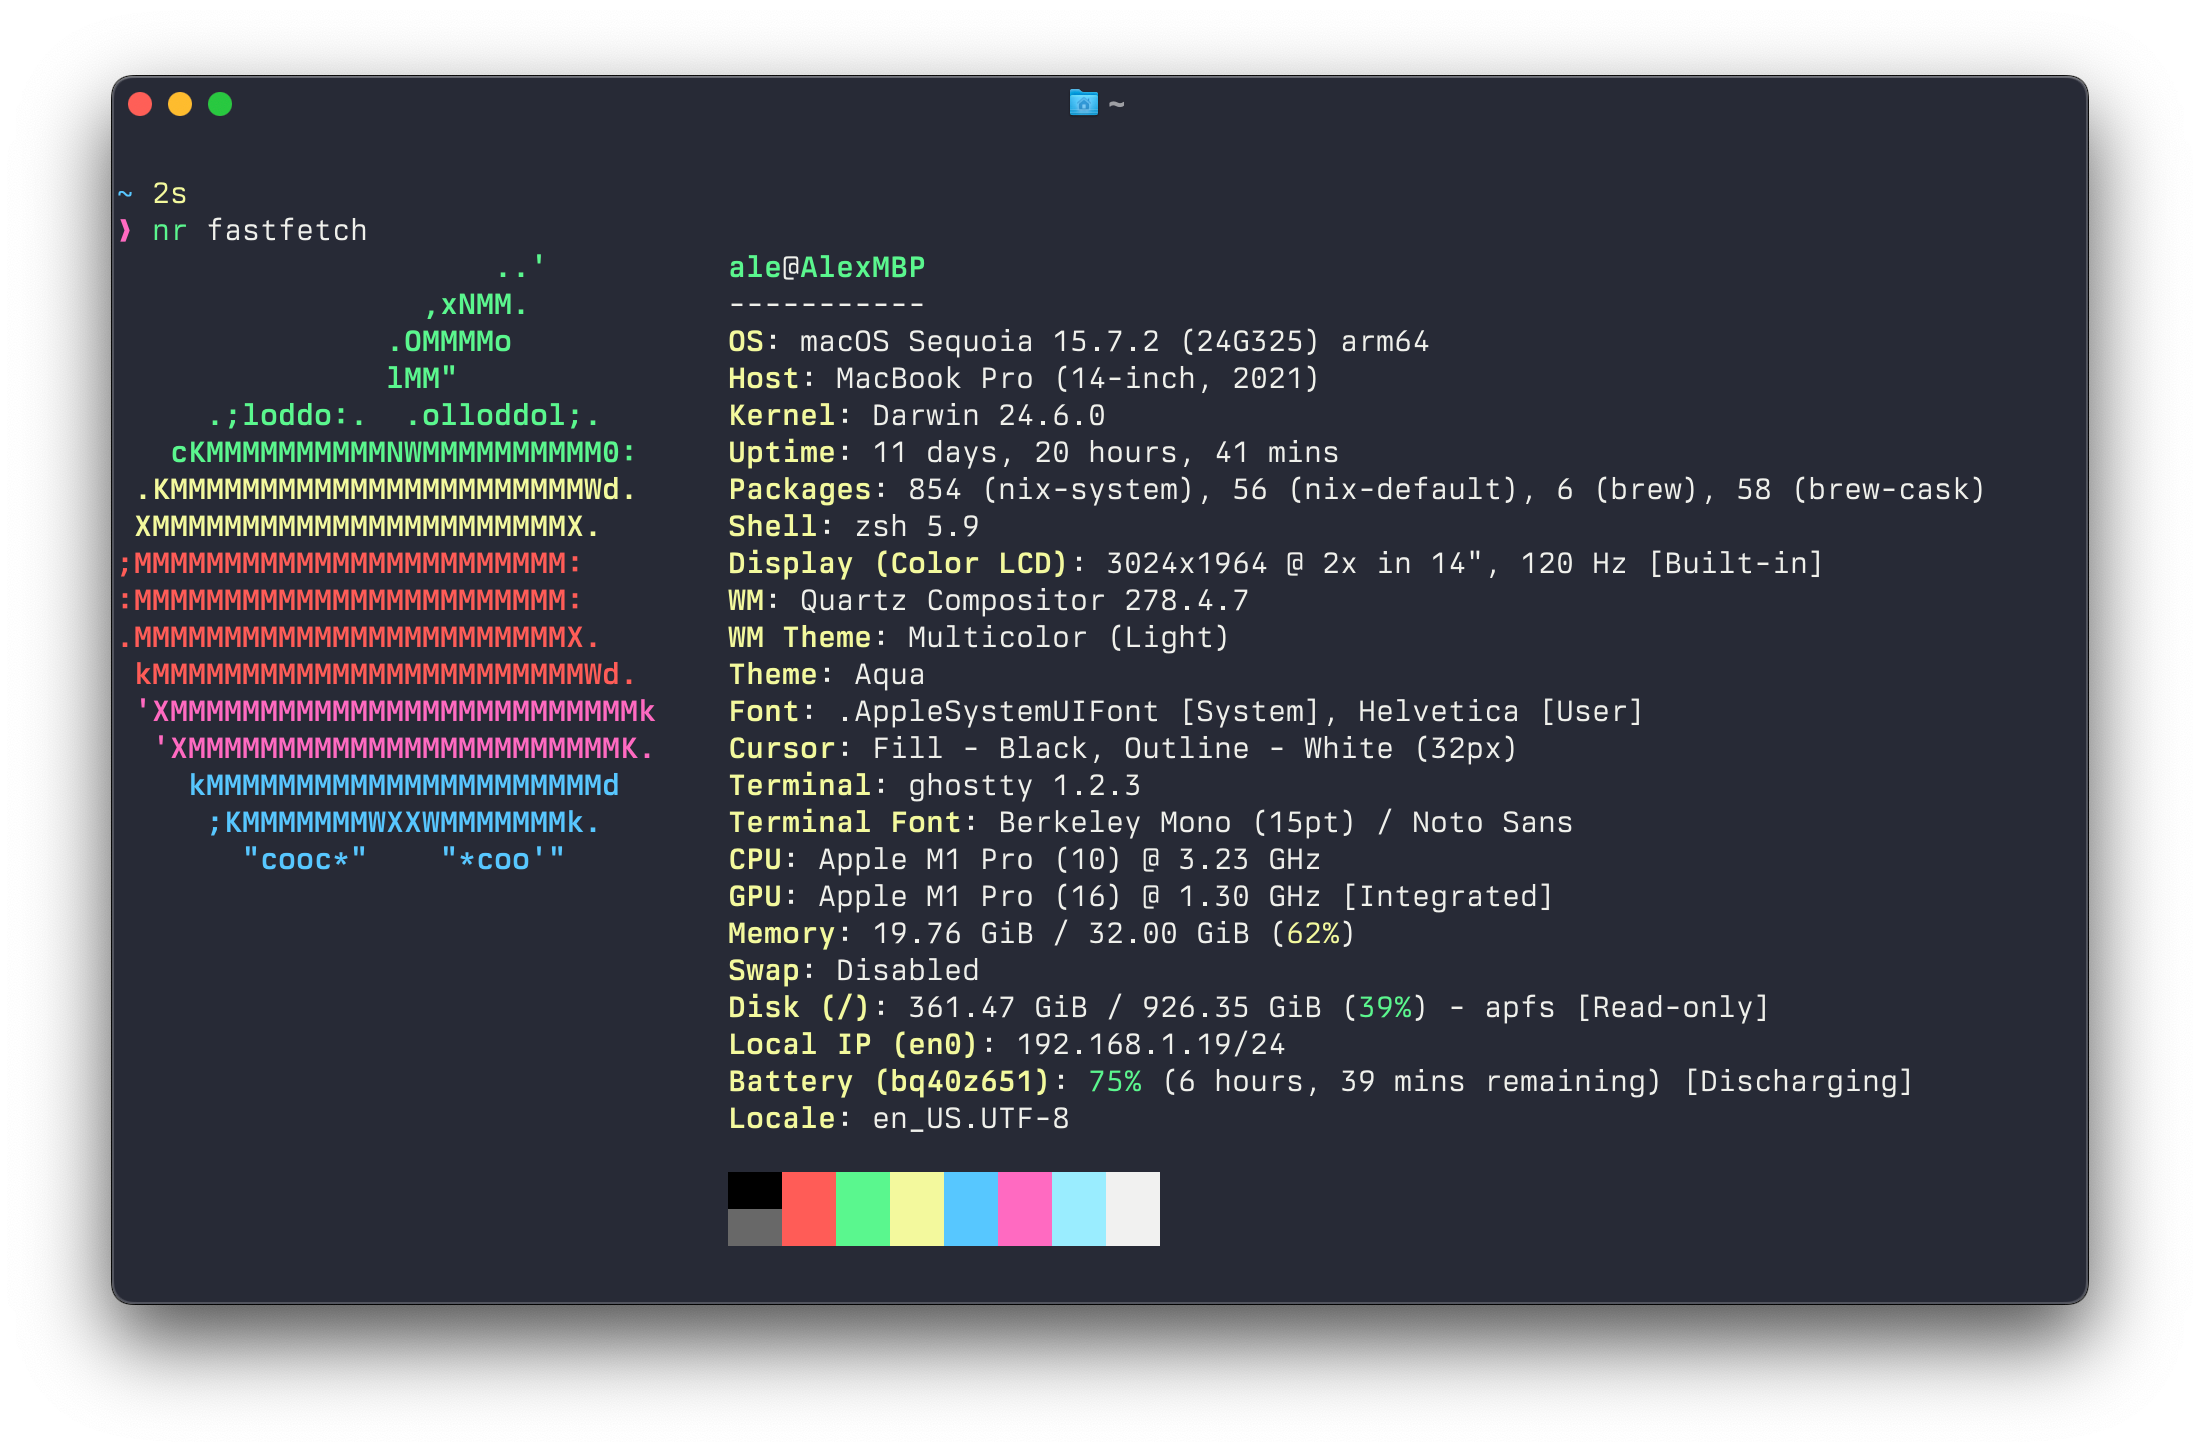
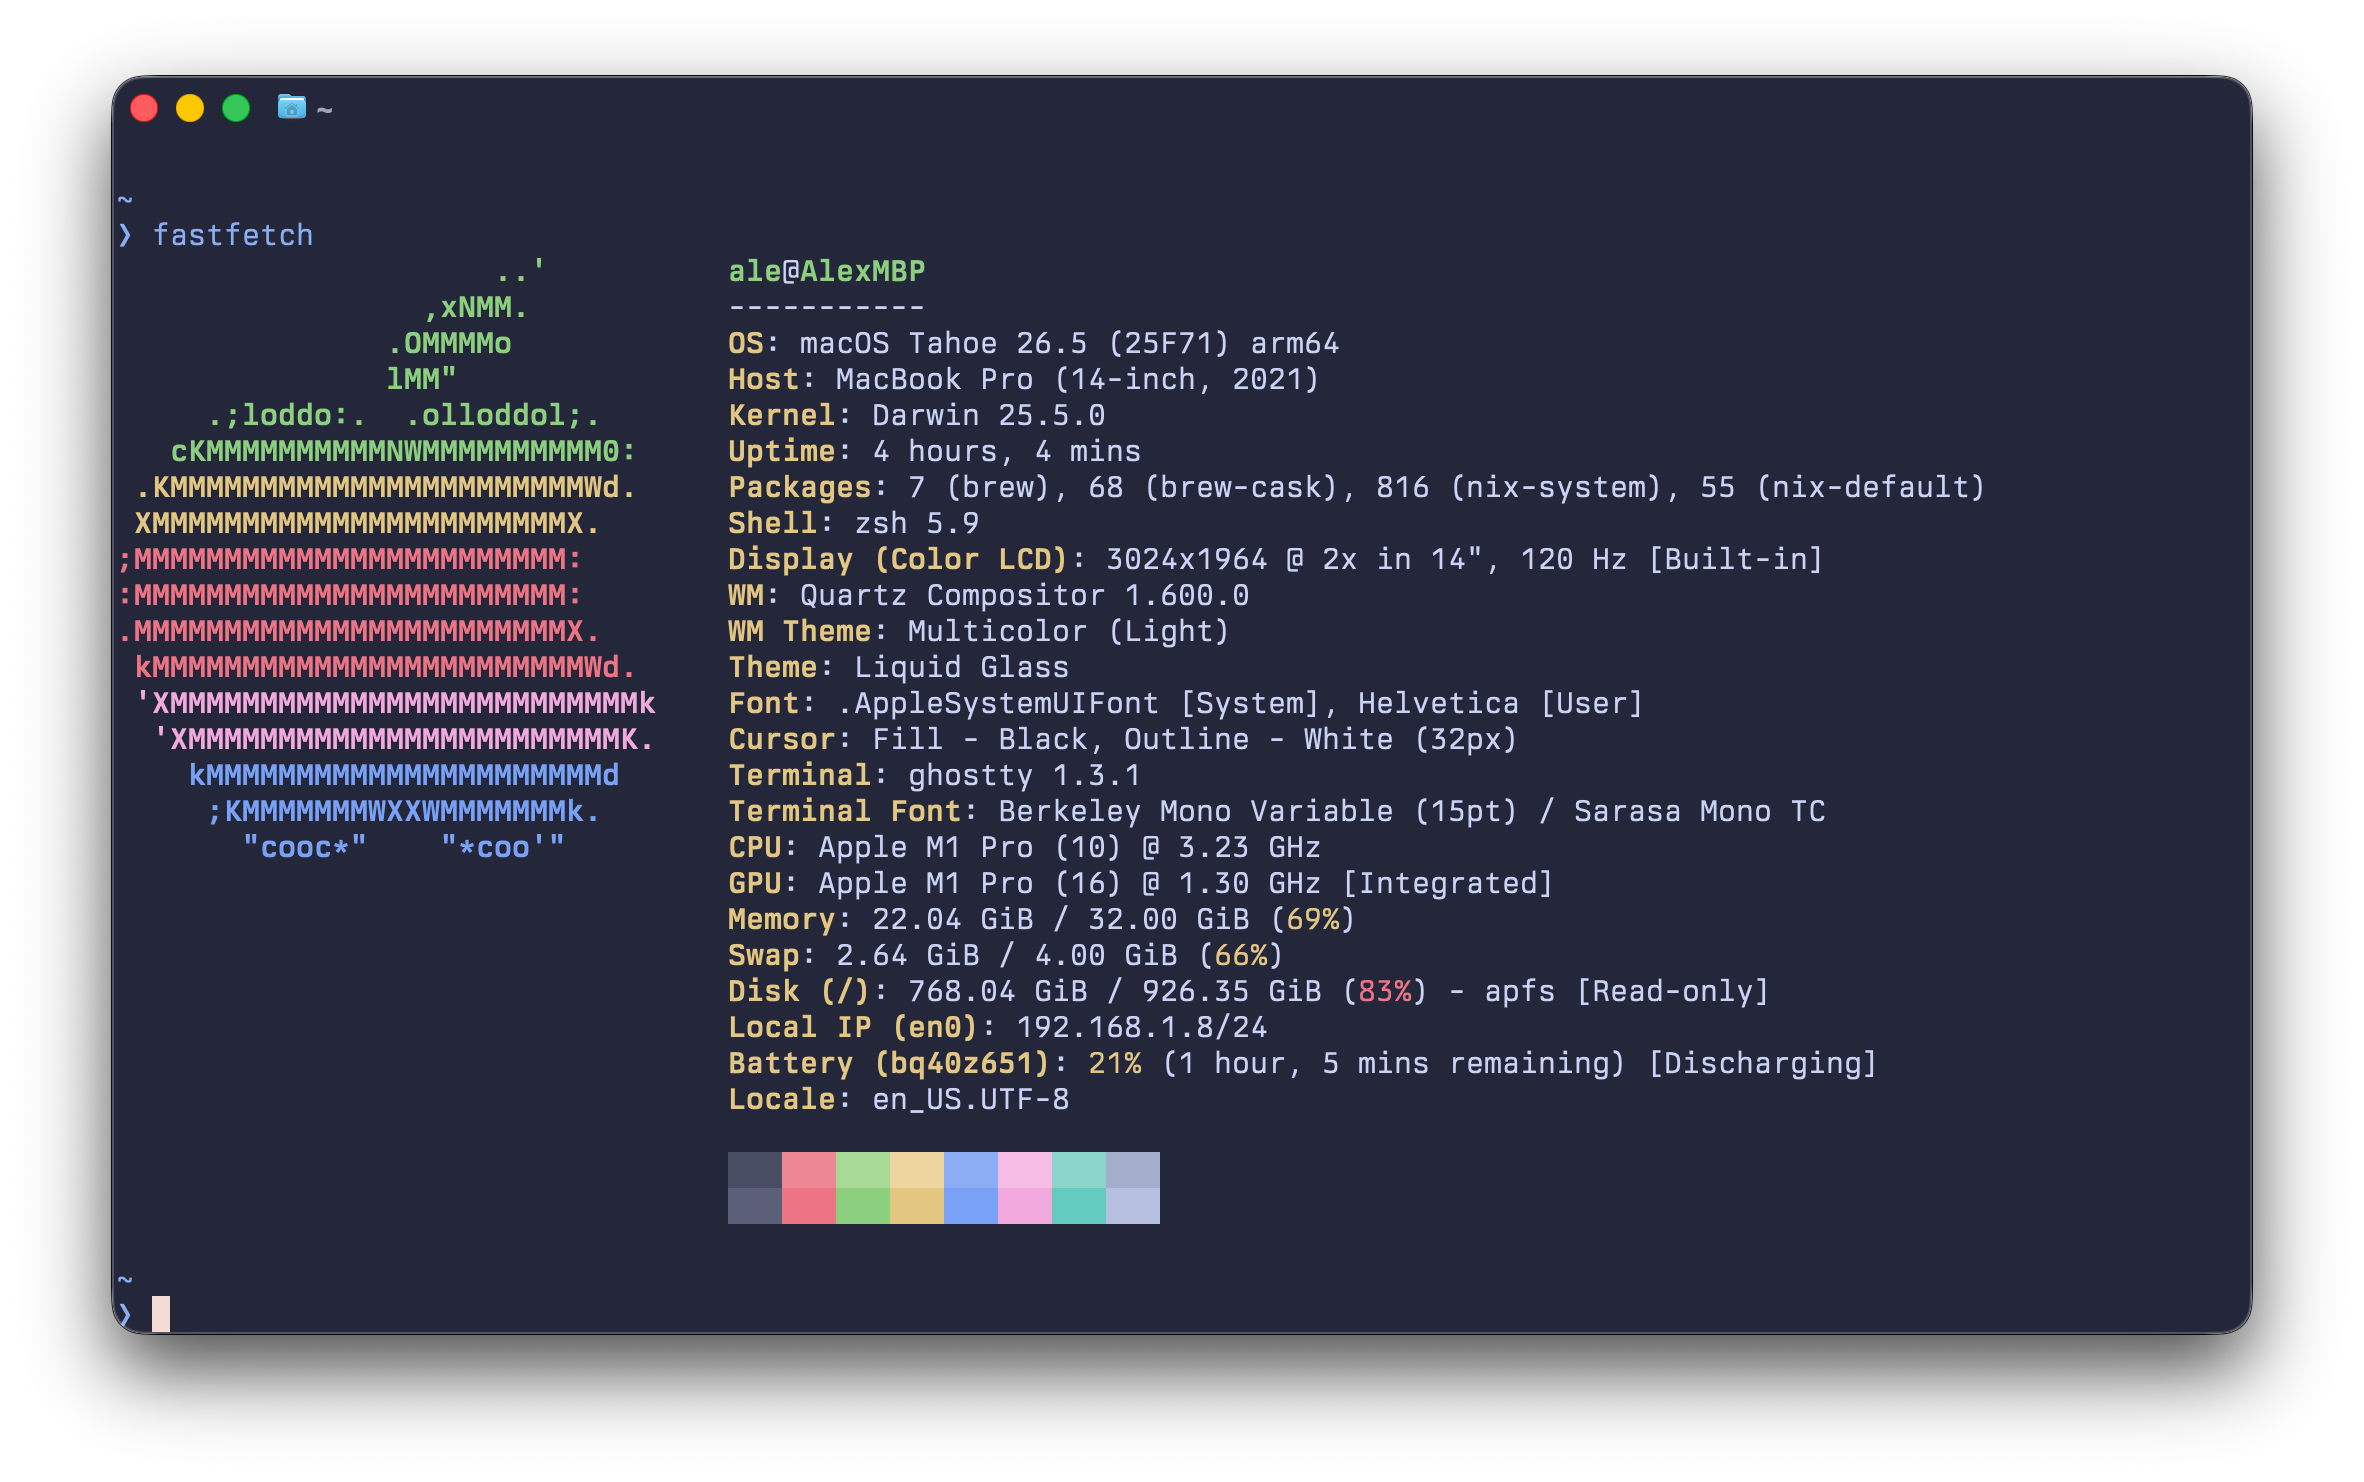
docs: macos updated to Tahoe

Changed region(s): [[0.0309, 0.031, 0.9273, 0.8988], [0.9273, 0.062, 0.9582, 0.8988], [0.8345, 0.7438, 0.8655, 0.7748]]

diff --git a/README.md b/README.md
@@ -12,7 +12,7 @@ My [nix-darwin](https://github.com/nix-darwin/nix-darwin) and NixOS configuratio
 
 My daily driver is macOS because I prefer the Apple desktop environment. There are also a NixOS homelab server (running as a Proxmox VM) and NixOS VM setups mainly for experiments.
 
-![Screenshot of fastfetch on M1 Pro running macOS Sequoia](./docs/screenshot-alexmbp-fastfetch.png)
+![Screenshot of fastfetch on M1 Pro running macOS Tahoe](./docs/screenshot-alexmbp-fastfetch.png)
 
 ## Overview
 
@@ -255,7 +255,7 @@ just switch-nixos-desktop
 
 <summary>NixOS VM bootstrap instructions on macOS (VMware Fusion)</summary>
 
-During my test, it appears that NAT DHCP in VMWare Fusion 13.6.4 doesn't work; use 13.6.3 instead (on macOS Sequoia 15.6.1).
+During my test, it appears that NAT DHCP in VMWare Fusion 13.6.4 doesn't work; use 13.6.3 instead (on macOS Tahoe 26.5).
 
 Note that a desktop environment is yet to be properly implemented.
 

diff --git a/CLAUDE.md b/CLAUDE.md
@@ -7,7 +7,7 @@ This file provides guidance to Claude Code (claude.ai/code) when working with co
 This is a cross-platform Nix configuration repository supporting both **macOS** (via nix-darwin) and **NixOS**, using Nix flakes for reproducible system configuration. The setup uses a shared home-manager configuration that works across all systems.
 
 **Current hosts:**
-- `AlexMBP`: macOS (M1 Pro, Sequoia) - nix-darwin
+- `AlexMBP`: macOS (M1 Pro, Tahoe) - nix-darwin
 - `nixos-vm-aarch64`: NixOS (aarch64-linux) - VMware Fusion VM
 - `nixos-orbstack`: NixOS (aarch64-linux) - OrbStack VM
 - `nixos-server-01`: NixOS (x86_64-linux) - Proxmox VM on homelab server (`homelab-nuc`)